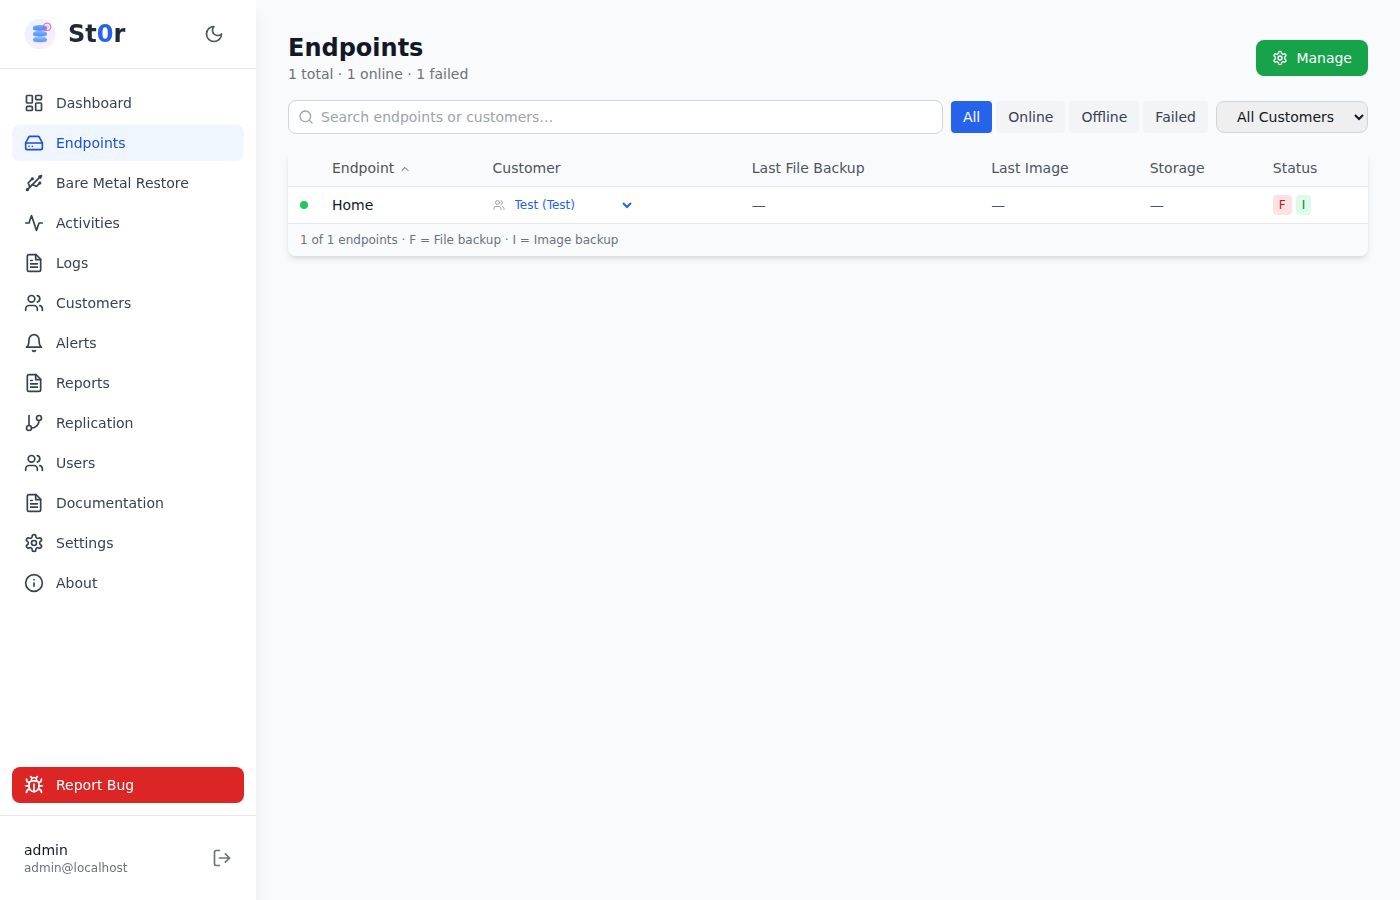
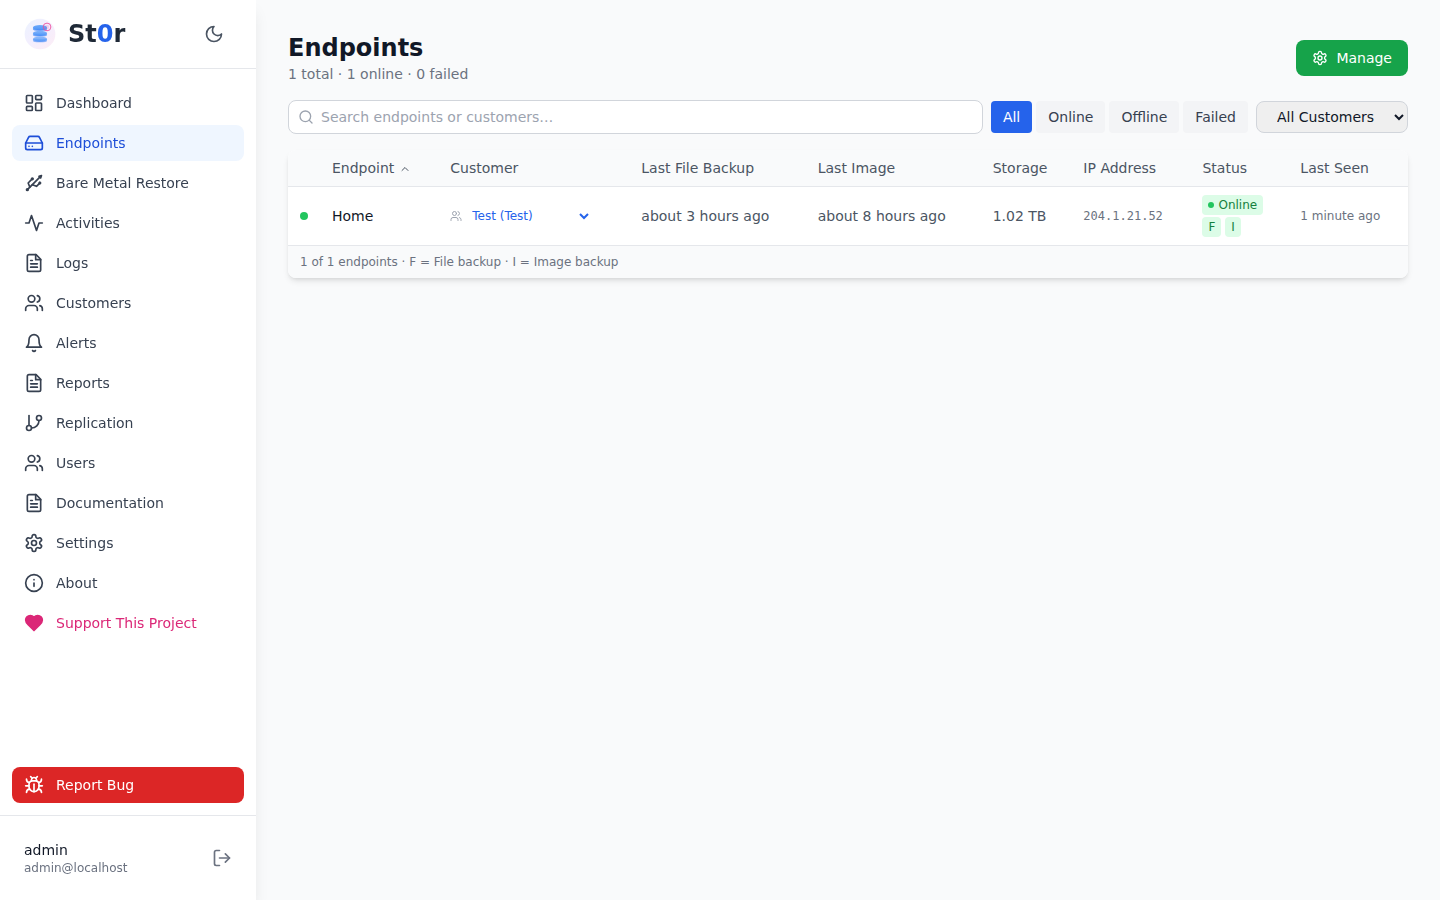
v3.2.60: Add IP, status, and last seen to Endpoints table; update screenshots
- Endpoints page: IP Address column (monospace), Status column shows
  Online/Offline badge + F/I backup health badges, Last Seen column
- Removed redundant online dot (replaced by Status badge)
- Updated all screenshots to show current UI

diff --git a/frontend/src/pages/Clients.tsx b/frontend/src/pages/Clients.tsx
@@ -189,7 +189,7 @@ export function Clients() {
               <table className="w-full text-sm">
                 <thead className="bg-gray-50 dark:bg-gray-800 border-b border-gray-200 dark:border-gray-700">
                   <tr>
-                    <th className="w-6 px-3 py-2" />
+                    <th className="w-4 px-1 py-2" />
                     <th className="px-3 py-2 text-left font-medium text-gray-600 dark:text-gray-400 cursor-pointer hover:text-gray-900 dark:hover:text-gray-100" onClick={() => handleSort('name')}>
                       Endpoint <SortIcon field="name" />
                     </th>
@@ -201,7 +201,11 @@ export function Clients() {
                     </th>
                     <th className="px-3 py-2 text-left font-medium text-gray-600 dark:text-gray-400">Last Image</th>
                     <th className="px-3 py-2 text-left font-medium text-gray-600 dark:text-gray-400">Storage</th>
-                    <th className="px-3 py-2 text-left font-medium text-gray-600 dark:text-gray-400">Status</th>
+                    <th className="px-3 py-2 text-left font-medium text-gray-600 dark:text-gray-400">IP Address</th>
+                    <th className="px-3 py-2 text-left font-medium text-gray-600 dark:text-gray-400 cursor-pointer hover:text-gray-900 dark:hover:text-gray-100" onClick={() => handleSort('status')}>
+                      Status <SortIcon field="status" />
+                    </th>
+                    <th className="px-3 py-2 text-left font-medium text-gray-600 dark:text-gray-400">Last Seen</th>
                   </tr>
                 </thead>
                 <tbody className="divide-y divide-gray-100 dark:divide-gray-800">
@@ -258,16 +262,32 @@ export function Clients() {
                         <td className="px-3 py-2 text-gray-600 dark:text-gray-400 whitespace-nowrap">
                           {storage > 0 ? formatBytes(storage) : '—'}
                         </td>
+                        {/* IP Address */}
+                        <td className="px-3 py-2 text-gray-500 dark:text-gray-400 whitespace-nowrap font-mono text-xs">
+                          {client.ip || '—'}
+                        </td>
                         {/* Status badges */}
                         <td className="px-3 py-2">
-                          <div className="flex gap-1">
-                            <span className={`px-1.5 py-0.5 rounded text-xs font-medium ${
-                              !hasFileProblem(client) ? 'bg-green-100 dark:bg-green-900/40 text-green-700 dark:text-green-300' : 'bg-red-100 dark:bg-red-900/40 text-red-700 dark:text-red-300'
-                            }`}>F</span>
-                            <span className={`px-1.5 py-0.5 rounded text-xs font-medium ${
-                              !hasImageProblem(client) ? 'bg-green-100 dark:bg-green-900/40 text-green-700 dark:text-green-300' : 'bg-red-100 dark:bg-red-900/40 text-red-700 dark:text-red-300'
-                            }`}>I</span>
+                          <div className="flex flex-col gap-0.5">
+                            <span className={`inline-flex items-center gap-1 px-1.5 py-0.5 rounded text-xs font-medium w-fit ${
+                              client.online ? 'bg-green-100 dark:bg-green-900/40 text-green-700 dark:text-green-300' : 'bg-gray-100 dark:bg-gray-700 text-gray-500 dark:text-gray-400'
+                            }`}>
+                              <span className={`h-1.5 w-1.5 rounded-full ${client.online ? 'bg-green-500' : 'bg-gray-400'}`} />
+                              {client.online ? 'Online' : 'Offline'}
+                            </span>
+                            <div className="flex gap-1">
+                              <span className={`px-1.5 py-0.5 rounded text-xs font-medium ${
+                                !hasFileProblem(client) ? 'bg-green-100 dark:bg-green-900/40 text-green-700 dark:text-green-300' : 'bg-red-100 dark:bg-red-900/40 text-red-700 dark:text-red-300'
+                              }`}>F</span>
+                              <span className={`px-1.5 py-0.5 rounded text-xs font-medium ${
+                                !hasImageProblem(client) ? 'bg-green-100 dark:bg-green-900/40 text-green-700 dark:text-green-300' : 'bg-red-100 dark:bg-red-900/40 text-red-700 dark:text-red-300'
+                              }`}>I</span>
+                            </div>
                           </div>
+                        </td>
+                        {/* Last Seen */}
+                        <td className="px-3 py-2 text-gray-500 dark:text-gray-400 whitespace-nowrap text-xs">
+                          {client.lastseen ? formatTimeAgo(client.lastseen) : '—'}
                         </td>
                       </tr>
                     );
